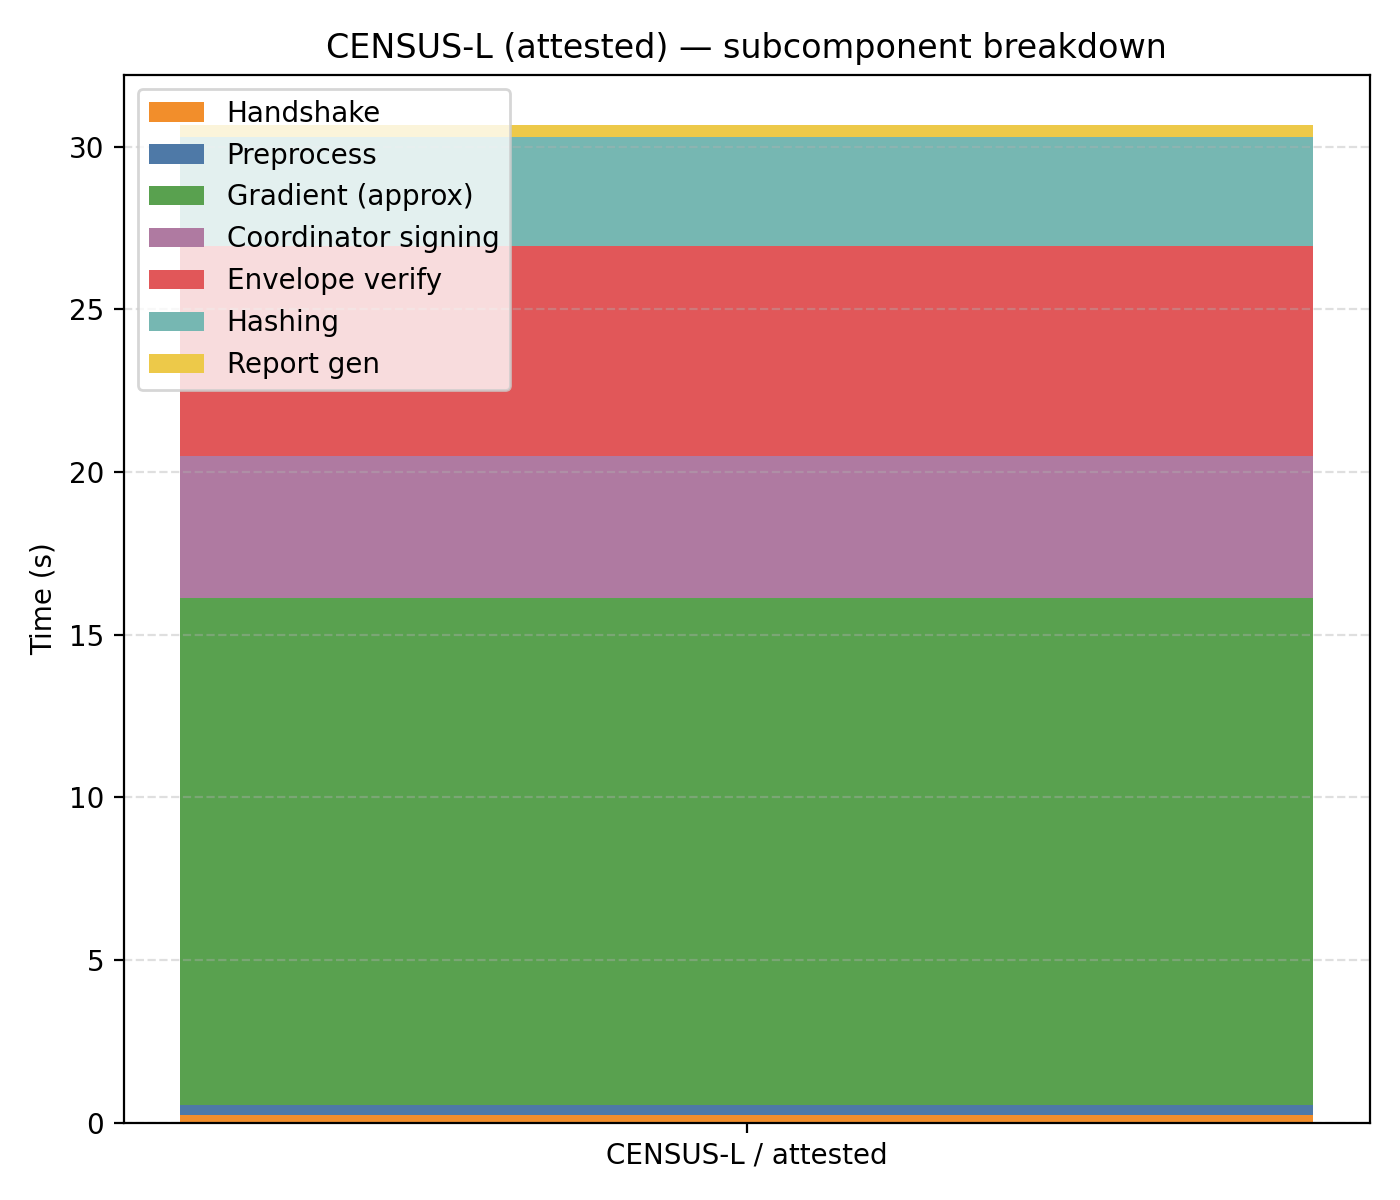
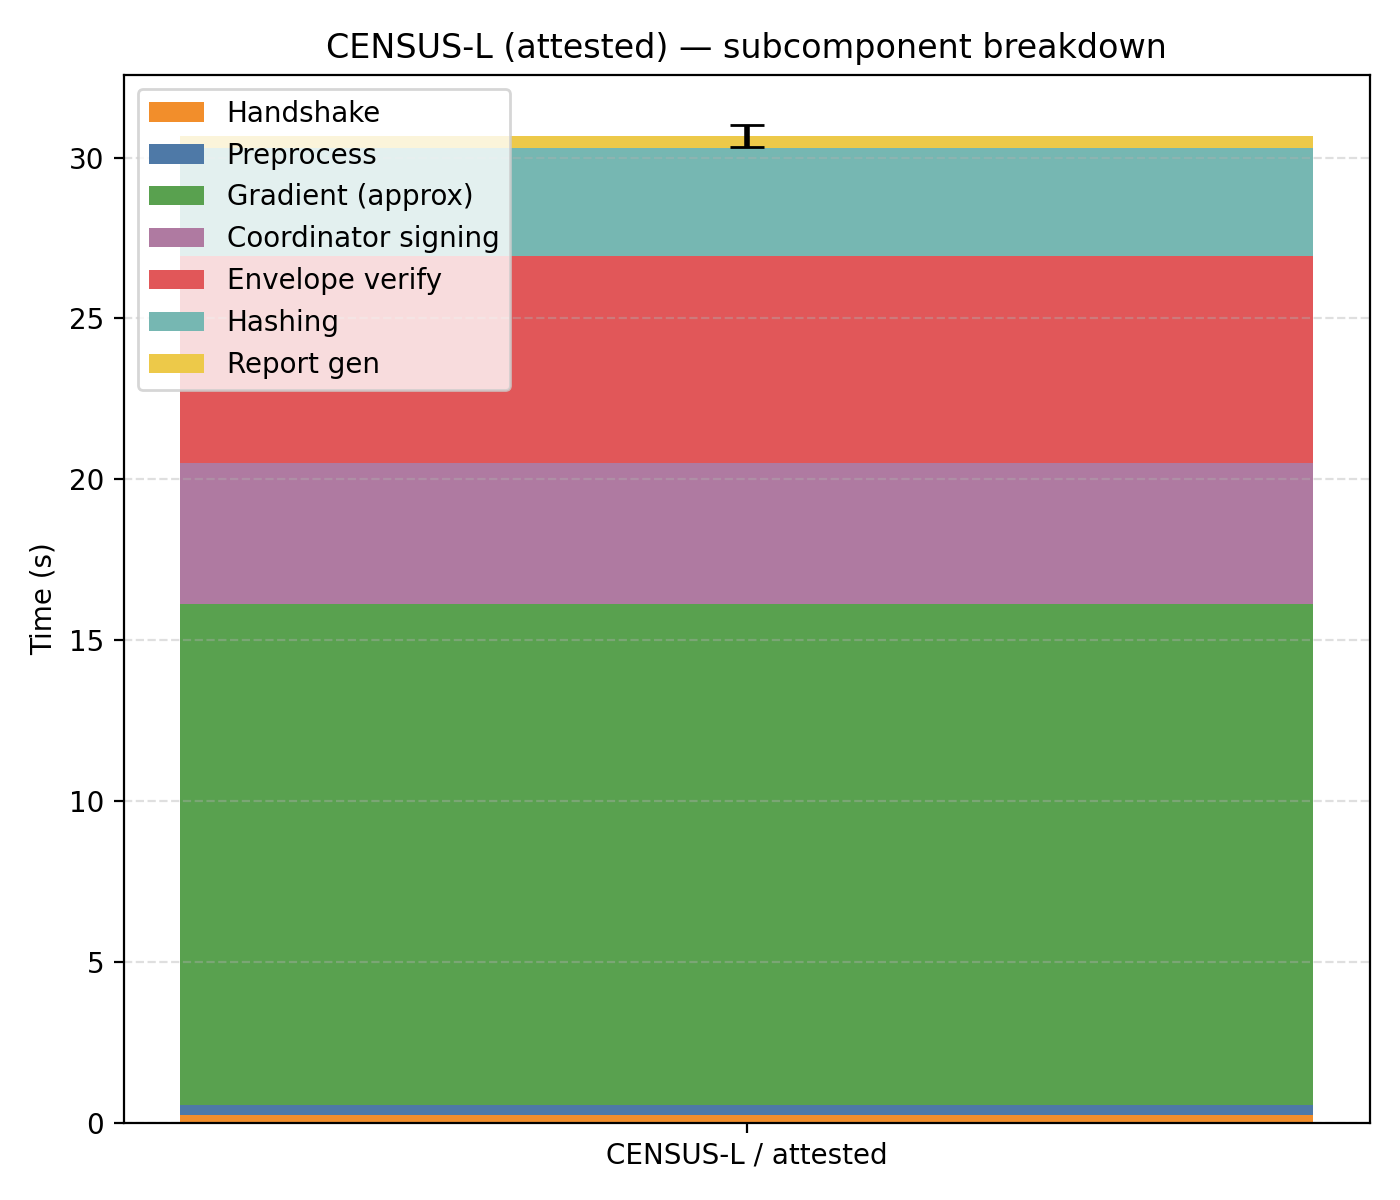
Added standard deviation to results_parse.py in performance test graph generation

diff --git a/Analysis/performance-tests/results_parse.py b/Analysis/performance-tests/results_parse.py
@@ -116,15 +116,24 @@ df.to_csv(per_run_path, index=False)
 agg = df.groupby(["model", "mode"]).agg(
     runs=("run", "count"),
     handshake_mean_s=("handshake_s", "mean"),
+    handshake_std_s=("handshake_s", "std"),
     preprocess_mean_s=("preprocess_s", "mean"),
+    preprocess_std_s=("preprocess_s", "std"),
     gradient_mean_s=("gradient_s", "mean"),
+    gradient_std_s=("gradient_s", "std"),
     crypto_mean_s=("crypto_total_s", "mean"),
     hash_mean_s=("hashing_total_s", "mean"),
+    hash_std_s=("hashing_total_s", "std"),
     envelope_verify_mean_s=("envelope_verify_total_s", "mean"),
+    envelope_verify_std_s=("envelope_verify_total_s", "std"),
     hash_verify_mean_s=("hash_verify_total_s", "mean"),
+    hash_verify_std_s=("hash_verify_total_s", "std"),
     envelope_sign_mean_s=("envelope_sign_total_s", "mean"),
+    envelope_sign_std_s=("envelope_sign_total_s", "std"),
     report_mean_s=("report_generation_s", "mean"),
+    report_std_s=("report_generation_s", "std"),
     pipeline_total_mean_s=("pipeline_total_s", "mean"),
+    pipeline_total_std_s=("pipeline_total_s", "std"),
 ).reset_index()
 
 agg_path = BASE_DIR / "performance_breakdown_agg.csv"
@@ -182,6 +191,11 @@ def plot_bar(model, mode, subset):
     plt.title(f"{model} ({mode}) — subcomponent breakdown")
     plt.grid(axis="y", linestyle="--", alpha=0.4)
     plt.legend(handles=handles, loc="upper left", frameon=True)
+
+    # Error bar on total pipeline height
+    total_mean = float(means["pipeline_total_mean_s"])
+    total_std = float(means.get("pipeline_total_std_s", 0.0) or 0.0)
+    plt.errorbar([x], [total_mean], yerr=[total_std], fmt="none", capsize=6, elinewidth=2, ecolor="black")
 
     plt.tight_layout()
     out_path = fig_dir / f"{model.lower()}_{mode}_breakdown.png"
@@ -247,6 +261,11 @@ def plot_grid(all_rows: pd.DataFrame):
         ax.set_ylim(0, model_ymax.get(model, all_rows["pipeline_total_mean_s"].max() * 1.15))
         if idx % 2 == 0:  # left column
             ax.set_ylabel("Time (s)")
+
+        # Error bar on total pipeline height
+        total_mean = float(r["pipeline_total_mean_s"])
+        total_std = float(r.get("pipeline_total_std_s", 0.0) or 0.0)
+        ax.errorbar([0.0], [total_mean], yerr=[total_std], fmt="none", capsize=5, elinewidth=2, ecolor="black")
 
     fig.legend(handles=legend_handles, loc="upper center", ncol=4, frameon=True, bbox_to_anchor=(0.5, 1.00))
     fig.suptitle("Subcomponent breakdown (mean) — shared Y-axis", y=1.05)
